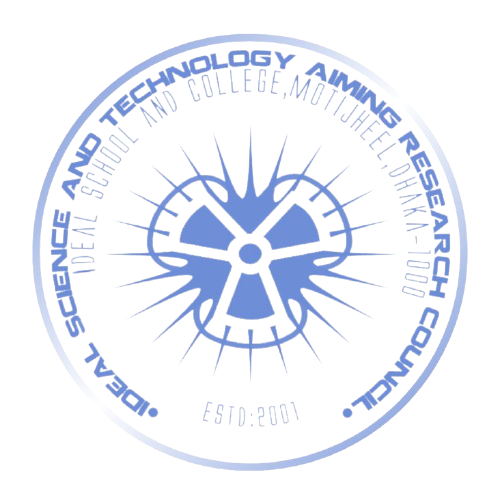
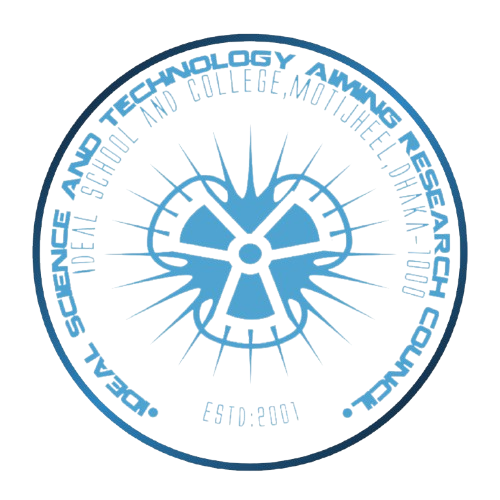
Fixed watermark visibility, added Bbigerover font, updated theme styles

Changed region(s): [[0.06, 0.06, 0.96, 0.96], [0.27, 0.33, 0.72, 0.72], [0.33, 0.63, 0.36, 0.66]]

diff --git a/style.css b/style.css
@@ -252,12 +252,28 @@ h1, h2, h3, h4, .logo-background {
     object-fit: cover;
     box-shadow: 0 20px 60px rgba(0, 0, 0, 0.3);
     border: 4px solid var(--accent-color);
-    animation: logoPulse 2s ease-in-out infinite;
+       /* Remove 'infinite' from animation */
+    animation: logoPulse 2s ease-in-out 1; /* Play only once */
 }
 
 @keyframes logoPulse {
-    0%, 100% { transform: scale(1); }
-    50% { transform: scale(1.05); }
+    0% { 
+        transform: scale(0.8); 
+        opacity: 0;
+    }
+    50% { 
+        transform: scale(1.05);
+        opacity: 1;
+    }
+    100% { 
+        transform: scale(1);
+        opacity: 1;
+    }
+}
+
+
+.opening-logo-img {
+    animation: logoPulse 2s ease-in-out 1; /* Remove 'infinite' */
 }
 
 .opening-motto {

diff --git a/script.js b/script.js
@@ -137,10 +137,10 @@ function startOpeningAnimation() {
     }, 50);
 }
 
-function startLogoAnimation() {
-    openingLogo.style.animation = 'logoToFooter 2s cubic-bezier(0.68, -0.55, 0.27, 1.55) forwards';
-    openingMottoText.style.transition = 'opacity 0.3s ease';
-    openingMottoText.style.opacity = '0';
+   function startLogoAnimation() {
+    const openingLogoImg = document.querySelector('.opening-logo-img');
+    openingLogoImg.style.transform = 'translateY(100vh) scale(0.1)';
+    openingLogoImg.style.opacity = '0';
 }
 
 // ===== TYPING EFFECT FOR FOOTER =====
